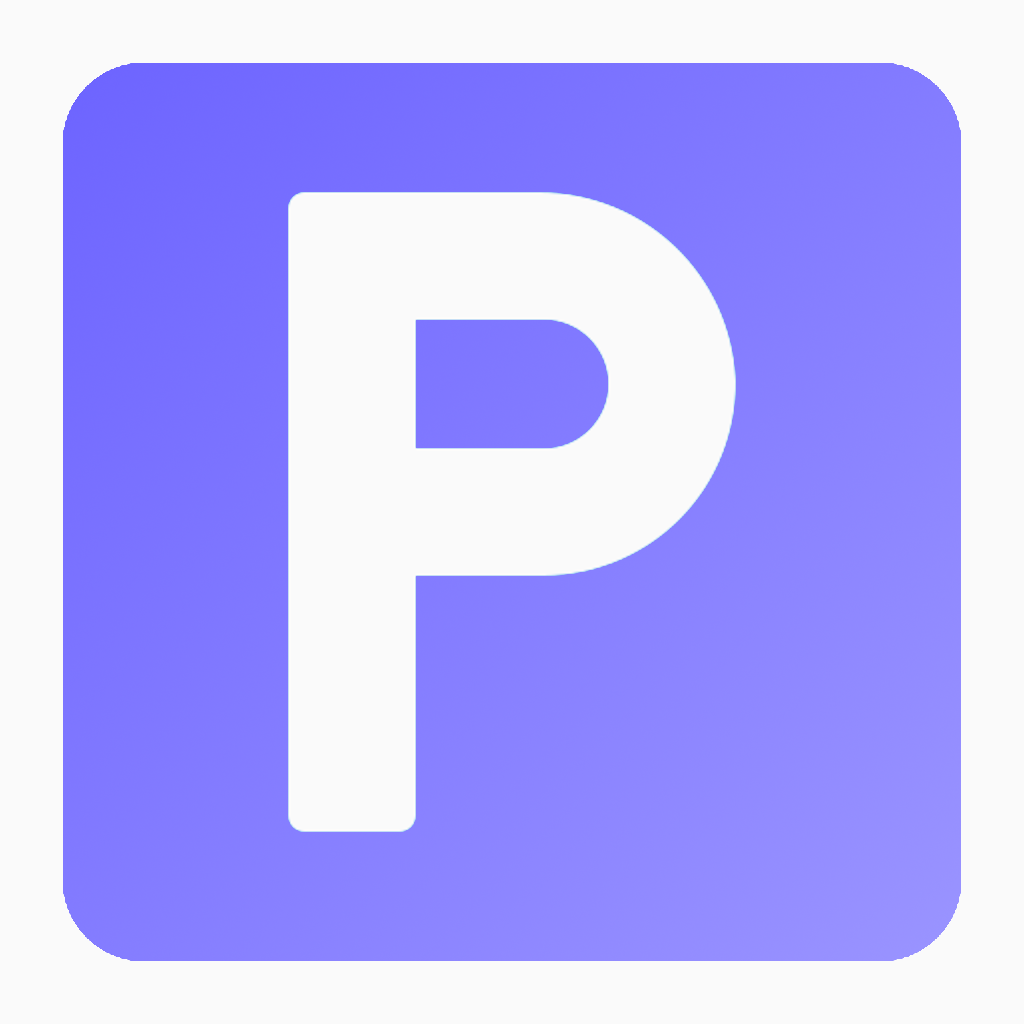
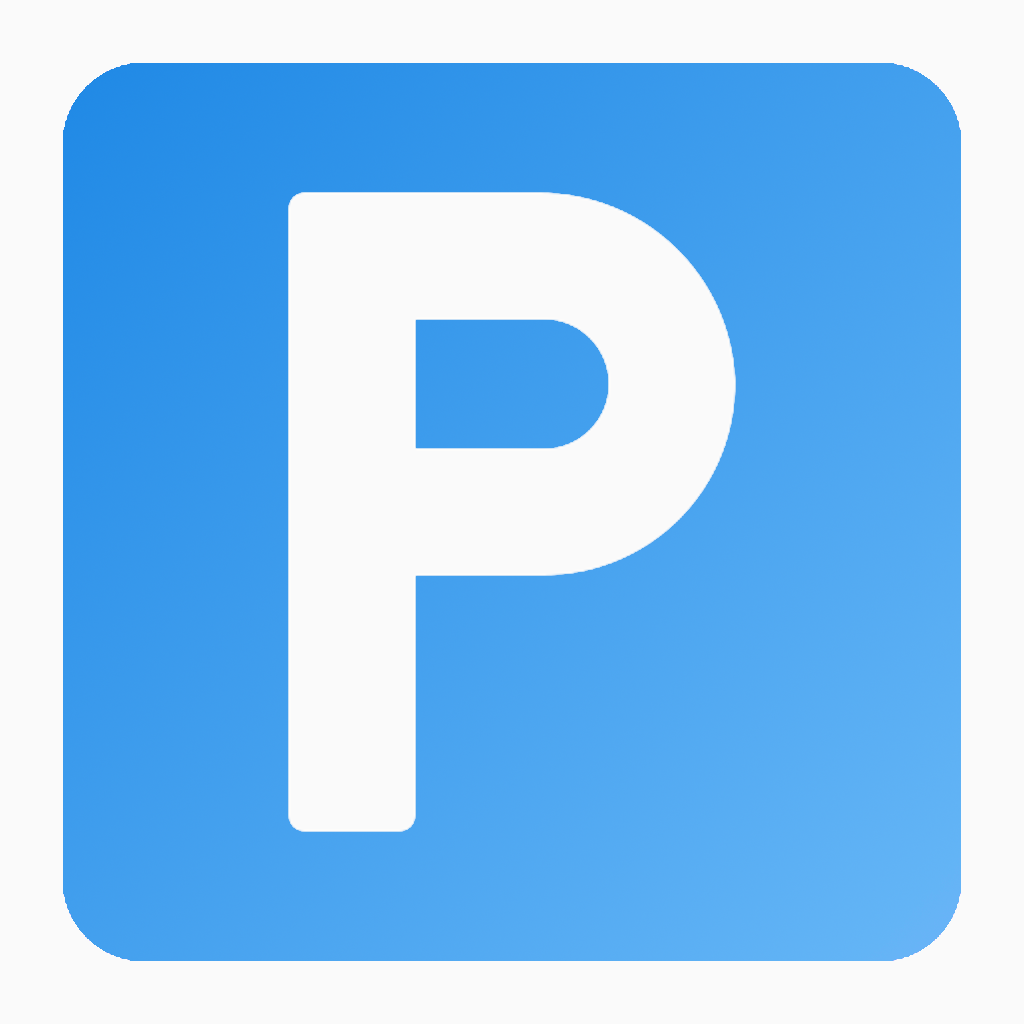
Alternatif design with Blue color #5

diff --git a/src/constants/theme.constant.ts b/src/constants/theme.constant.ts
@@ -8,8 +8,8 @@ import "@/global.css";
 import { Platform } from "react-native";
 
 export const Colors = {
-  primary: "#6C63FF",
-  primaryLight: "#9B95FF",
+  primary: "#1E88E5",
+  primaryLight: "#64B5F6",
   secondary: "#FF6584",
   danger: "#EF4444",
 